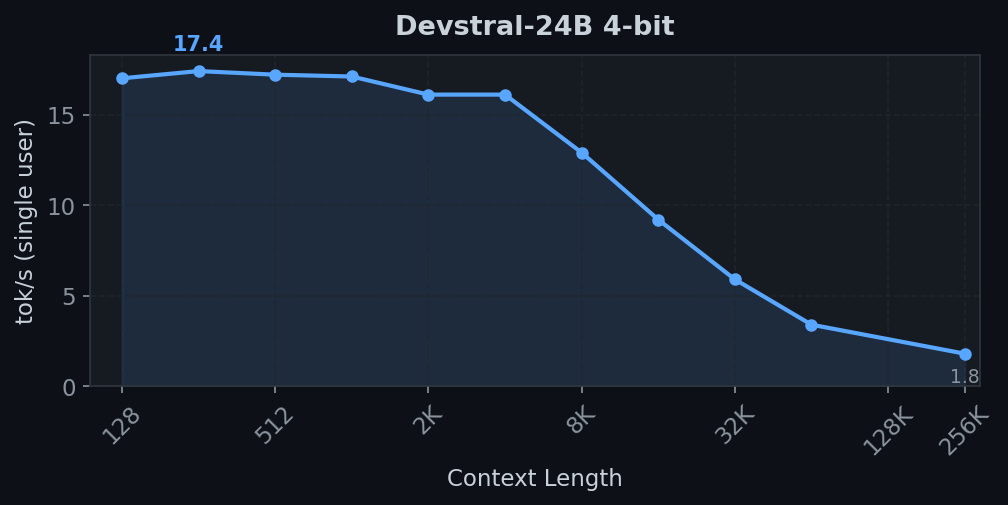
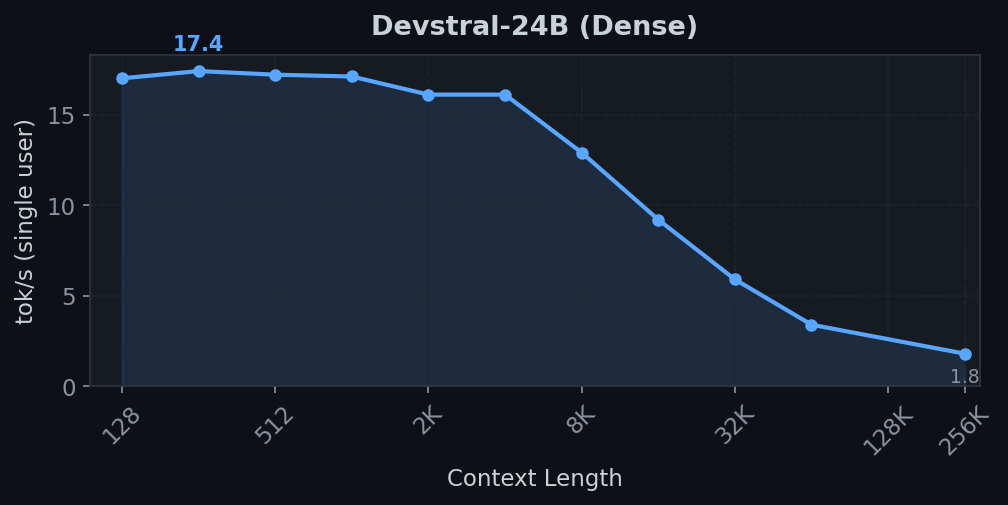
Add Qwen3-30B MoE and Qwen3-32B Dense benchmarks, regenerate charts
Qwen3-30B MoE (fp8, RoPE scaled): matches Coder-30B exactly — 69 tok/s
at short context, tested through 64K. Same architecture, same performance.

Qwen3-32B Dense (fp8, RoPE scaled): 12.2 tok/s at short context, GPU OOM
at 16K due to 64 layers of dense attention. Heavy model needs turboquant
or 128GB Mac for long context.

Charts regenerated with all 6 benchmarked models.

Changed region(s): [[0.369, 0.0297, 0.7073, 0.0891]]

diff --git a/scripts/bench/generate_charts.py b/scripts/bench/generate_charts.py
@@ -31,12 +31,14 @@ plt.rcParams.update({
 })
 
 MODELS = {
-    "devstral-24b-4bit":   {"label": "Devstral-24B 4-bit",                    "color": "#58a6ff"},
-    "coder-30b-4bit":      {"label": "Coder-30B 4-bit (MoE)",                "color": "#3fb950"},
-    "gemma4-26b-4bit":     {"label": "Gemma 4 26B 4-bit (MoE)",              "color": "#d2a8ff"},
-    "qwen35-27b-4bit":     {"label": "Qwen3.5-27B 4-bit",                    "color": "#f0883e"},
-    "coder-next-80b-4bit": {"label": "Coder-Next 80B 4-bit (MoE+DeltaNet)",  "color": "#f778ba"},
-    "gemma4-31b-4bit":     {"label": "Gemma 4 31B 4-bit",                    "color": "#79c0ff"},
+    "devstral-24b-4bit":      {"label": "Devstral-24B (Dense)",             "color": "#58a6ff"},
+    "coder-30b-4bit":         {"label": "Coder-30B (MoE)",                  "color": "#3fb950"},
+    "gemma4-26b-4bit":        {"label": "Gemma 4 26B (MoE)",                "color": "#d2a8ff"},
+    "qwen3-30b-moe-4bit":    {"label": "Qwen3-30B (MoE)",                  "color": "#f0883e"},
+    "qwen3-32b-4bit":        {"label": "Qwen3-32B (Dense)",                 "color": "#e3b341"},
+    "gemma4-31b-4bit":        {"label": "Gemma 4 31B (Dense)",              "color": "#79c0ff"},
+    "coder-next-80b-4bit":    {"label": "Coder-Next 80B (MoE+DeltaNet)",    "color": "#f778ba"},
+    "qwen35-27b-4bit":        {"label": "Qwen3.5-27B (DeltaNet)",           "color": "#da3633"},
 }
 
 # Unified x-axis: 128 to 256K

diff --git a/README.md b/README.md
@@ -121,16 +121,16 @@ SGLang with native MLX backend on M4 Pro (64GB unified memory)
 
 ## Supported Models
 
-| Model | Type | Weights | 1-user tok/s | 256K | Launch |
-|:------|:-----|:-------:|:------------:|:----:|:-------|
-| Coder-30B | MoE (3B active) | 16 GB | 68.4 | 3.2 | `launch.sh coder-30b` |
-| Qwen3-30B | MoE (3B active) | 16 GB | ~68 | pending | `launch.sh qwen3-moe` |
-| Gemma 4 26B | MoE (4B active) | 15 GB | 58.8 | 1.5 | `launch.sh gemma4` |
-| Coder-Next 80B | MoE+DeltaNet | 42 GB | 55.3 | mem limited | `launch.sh coder-next` |
-| Devstral-24B | Dense | 14 GB | 17.0 | 1.8 | `launch.sh devstral` |
+| Model | Type | Weights | 1-user tok/s | Max Context | Launch |
+|:------|:-----|:-------:|:------------:|:-----------:|:-------|
+| Coder-30B | MoE (3B active) | 16 GB | 68.4 | **256K** (3.2 tok/s) | `launch.sh coder-30b` |
+| Qwen3-30B | MoE (3B active) | 16 GB | 69.0 | **64K** (6.3 tok/s) | `launch.sh qwen3-moe` |
+| Gemma 4 26B | MoE (4B active) | 15 GB | 58.8 | **256K** (1.5 tok/s) | `launch.sh gemma4` |
+| Coder-Next 80B | MoE+DeltaNet | 42 GB | 55.3 | 8K (mem limited) | `launch.sh coder-next` |
+| Devstral-24B | Dense | 14 GB | 17.0 | **256K** (1.8 tok/s) | `launch.sh devstral` |
 | Qwen3.5-27B | DeltaNet hybrid | 15 GB | 14.5 | pending | `launch.sh qwen35` |
-| Qwen3-32B | Dense | 18 GB | ~12 | pending | `launch.sh qwen3-32b` |
-| Gemma 4 31B | Dense | 17 GB | 12.5 | 16K max | `launch.sh gemma4-31b` |
+| Qwen3-32B | Dense | 18 GB | 12.2 | 8K (GPU OOM) | `launch.sh qwen3-32b` |
+| Gemma 4 31B | Dense | 17 GB | 12.5 | 16K (turboquant) | `launch.sh gemma4-31b` |
 
 All models 4-bit MLX quantized from [`mlx-community/`](https://huggingface.co/mlx-community) on HuggingFace.
 
